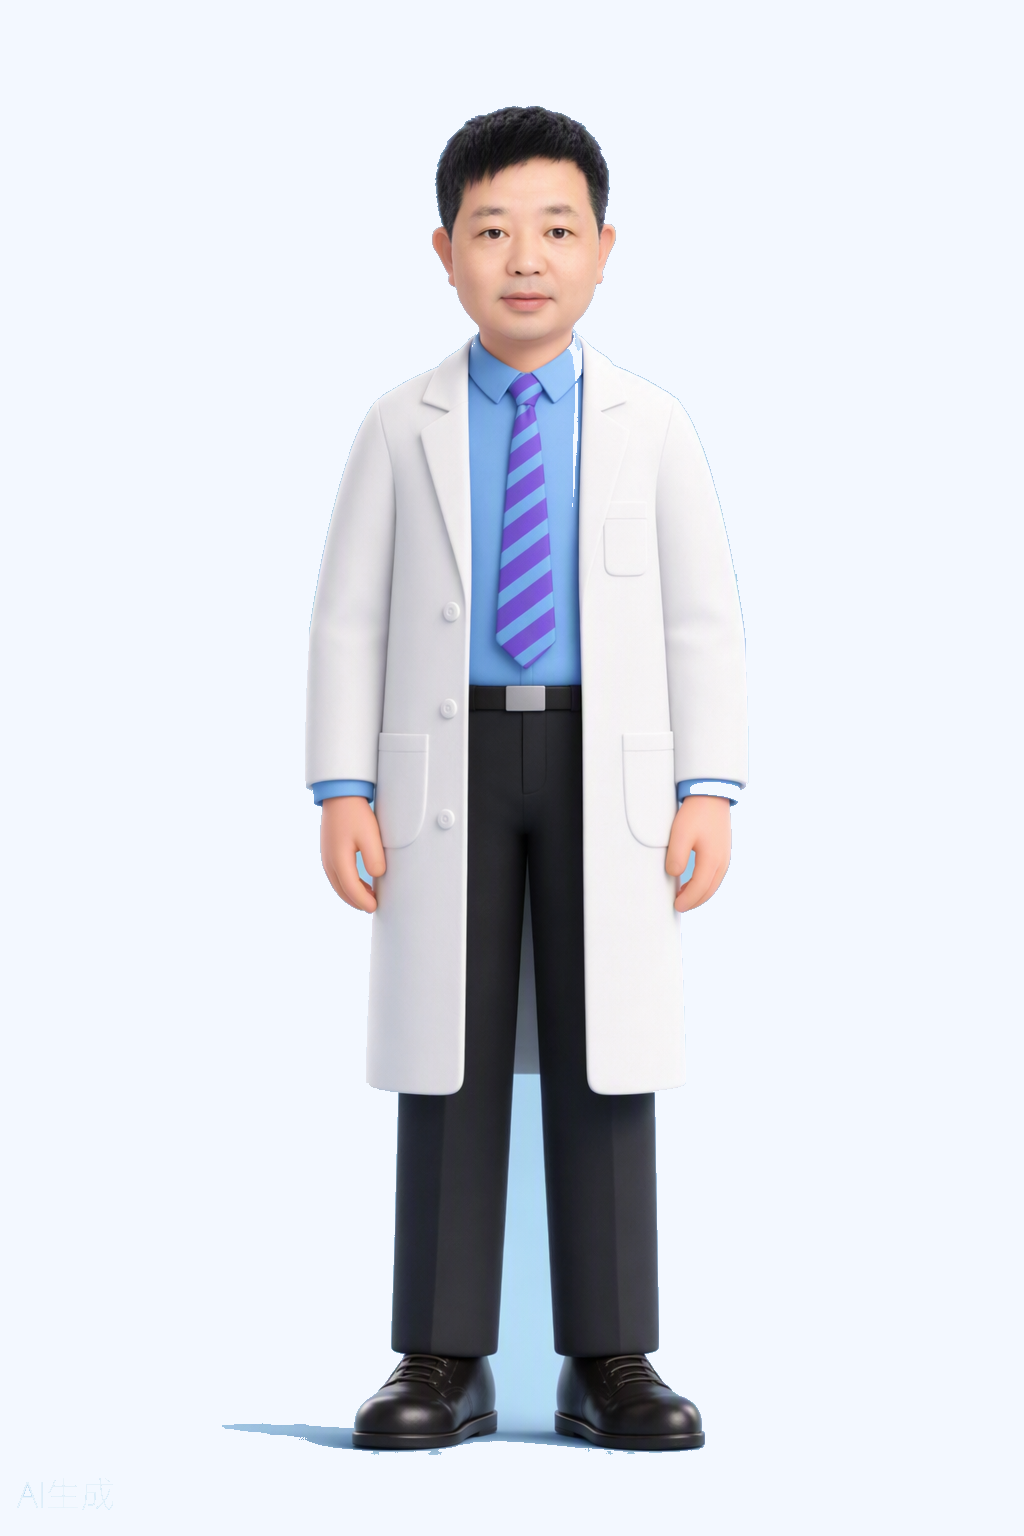
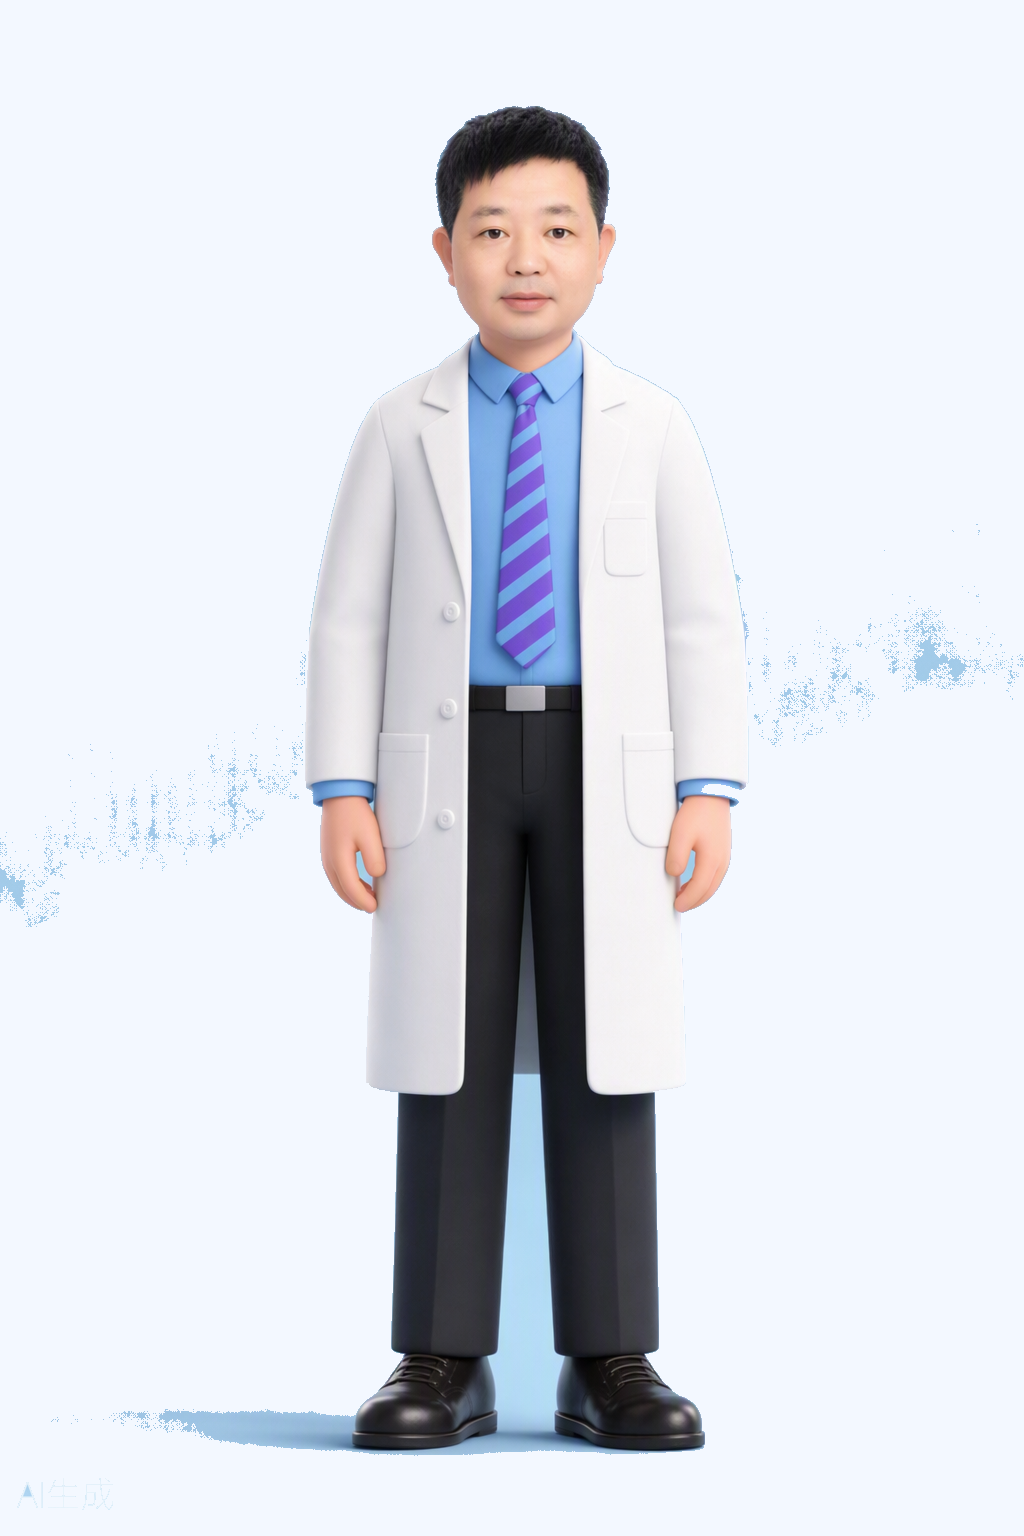
回到更早版本(背景融合去卡片版)

diff --git a/index.html b/index.html
@@ -109,7 +109,7 @@
     background: transparent; border: none; border-radius: 0; overflow: hidden;
     display: flex; align-items: flex-end; justify-content: center;
   }
-  .doctor-card img { width: 100%; height: 100%; object-fit: contain; padding: 10px 8px 0; transform: scale(1.22); transform-origin: 50% 100%; }
+  .doctor-card img { width: 100%; height: 100%; object-fit: contain; padding: 10px 8px 0; }
 
   /* ===== 聊天卡片（纯白） ===== */
   .chat-card {
